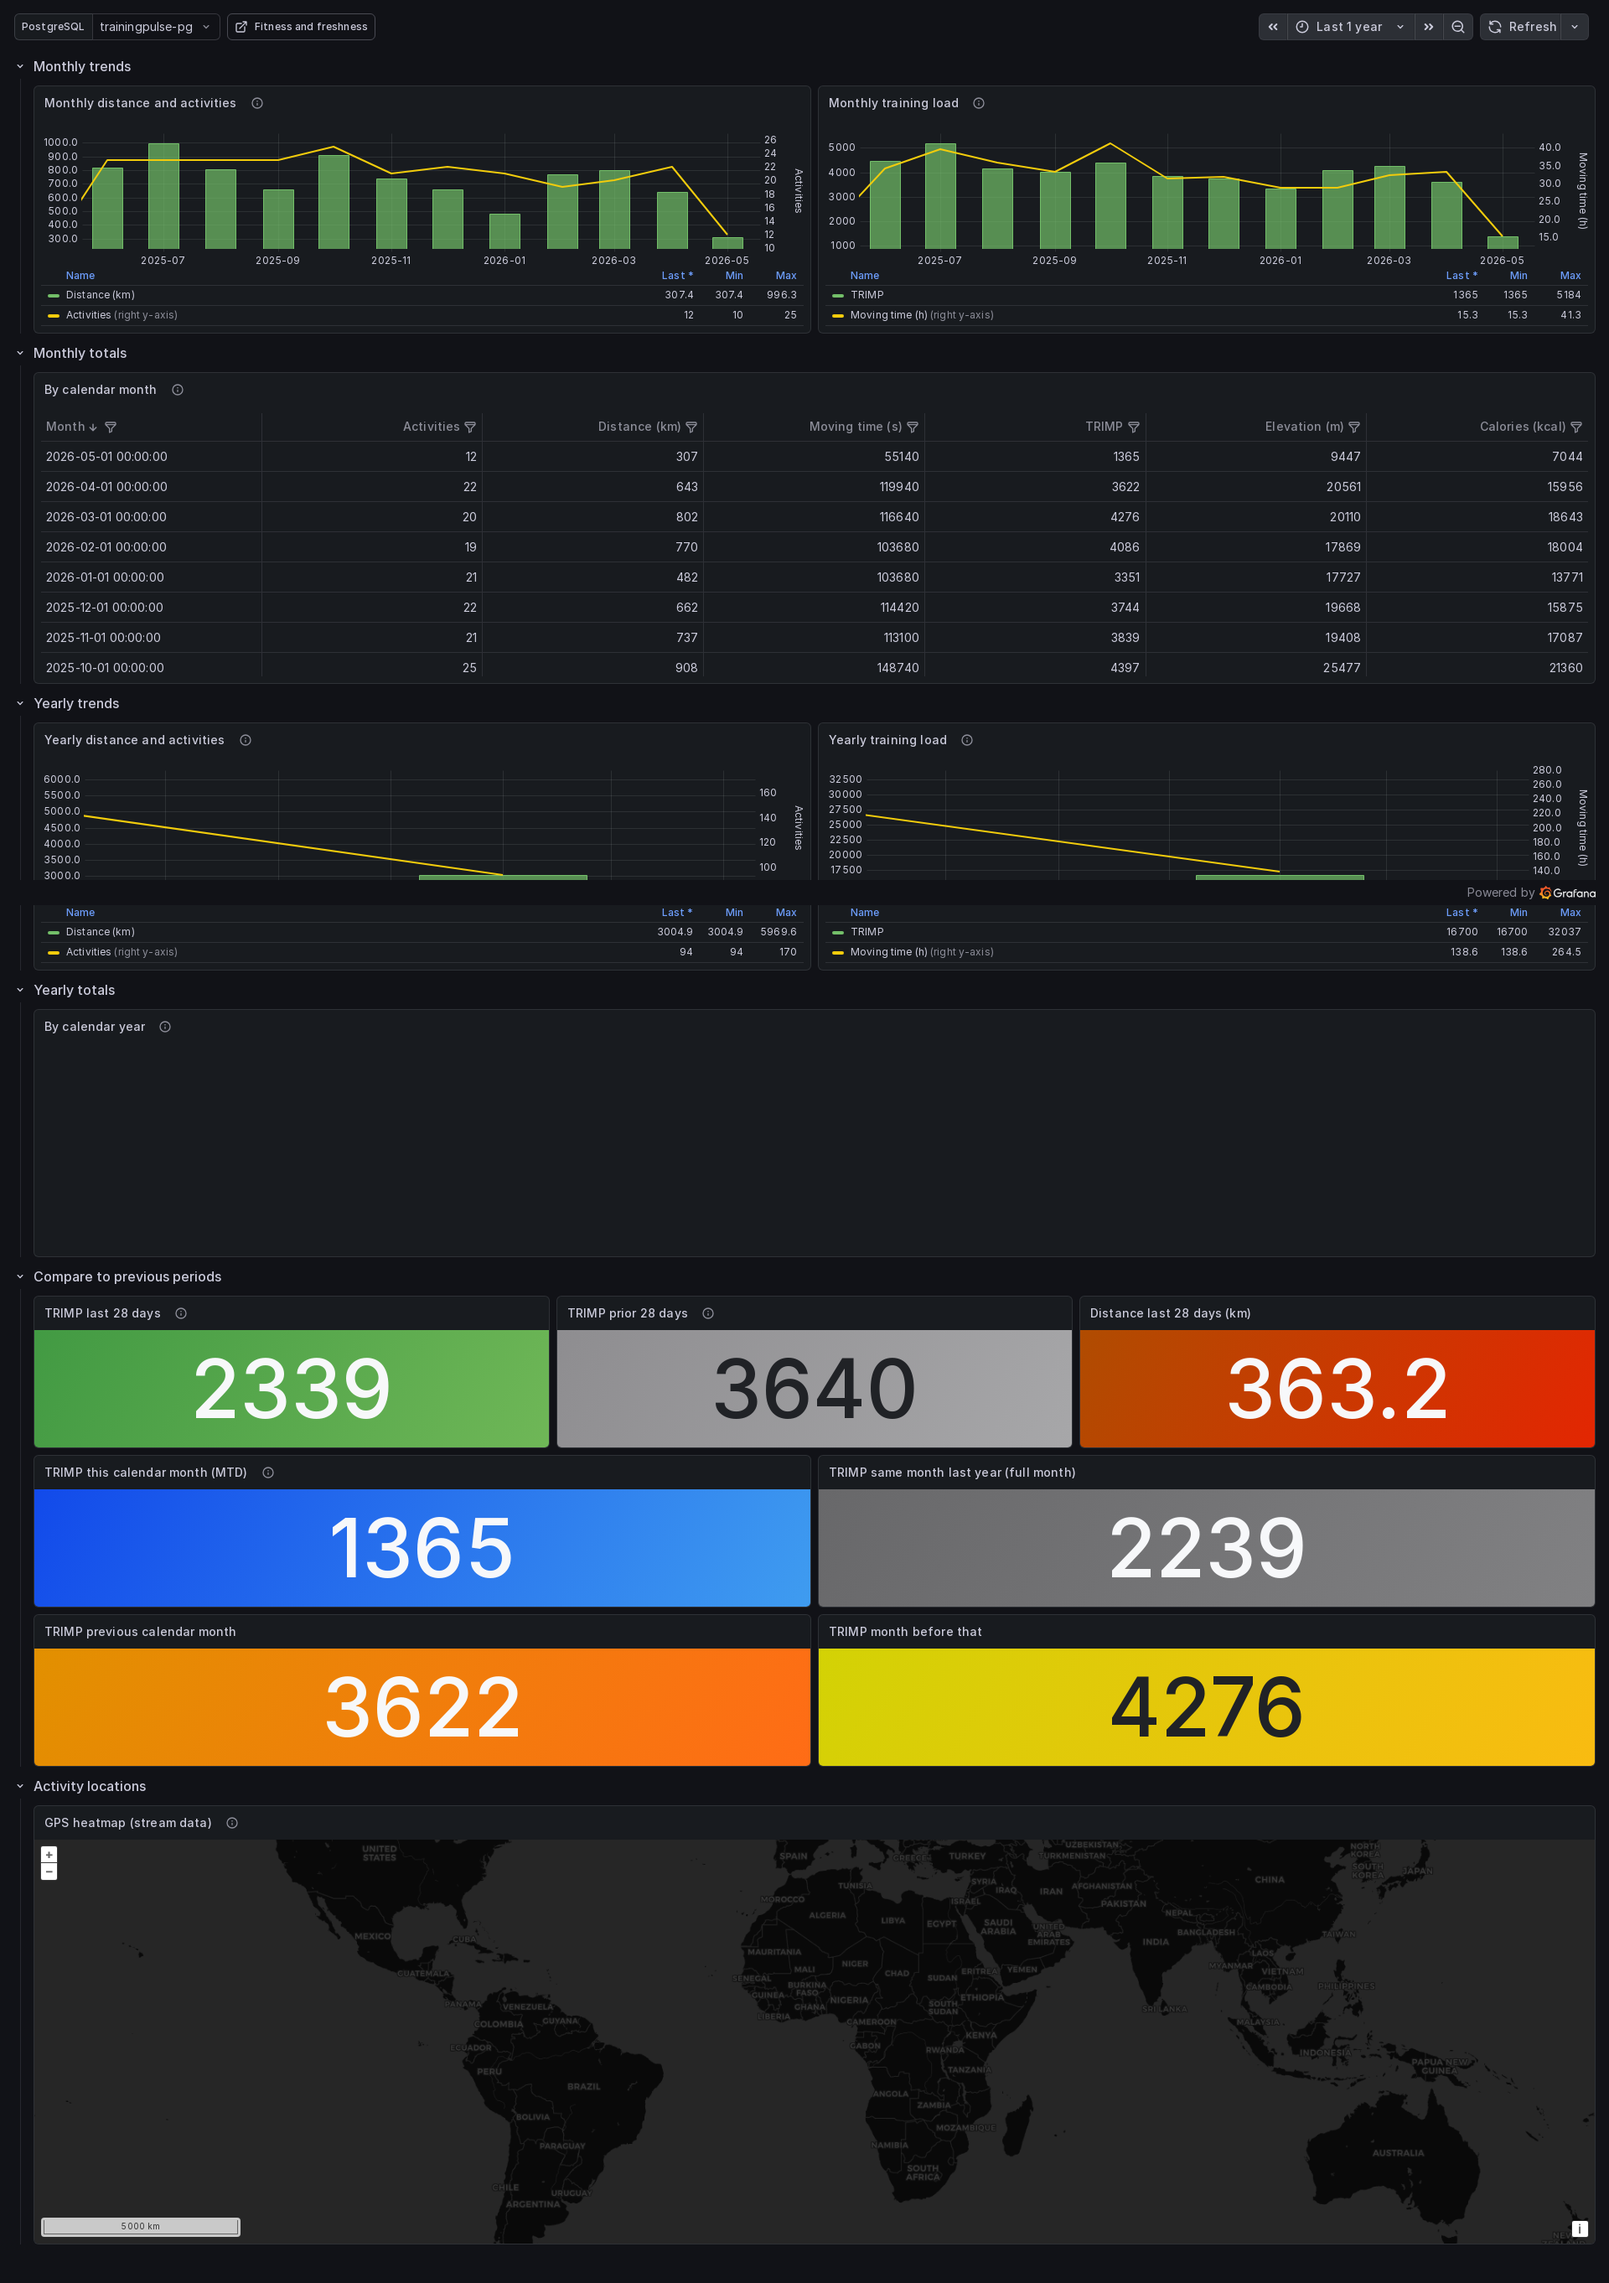
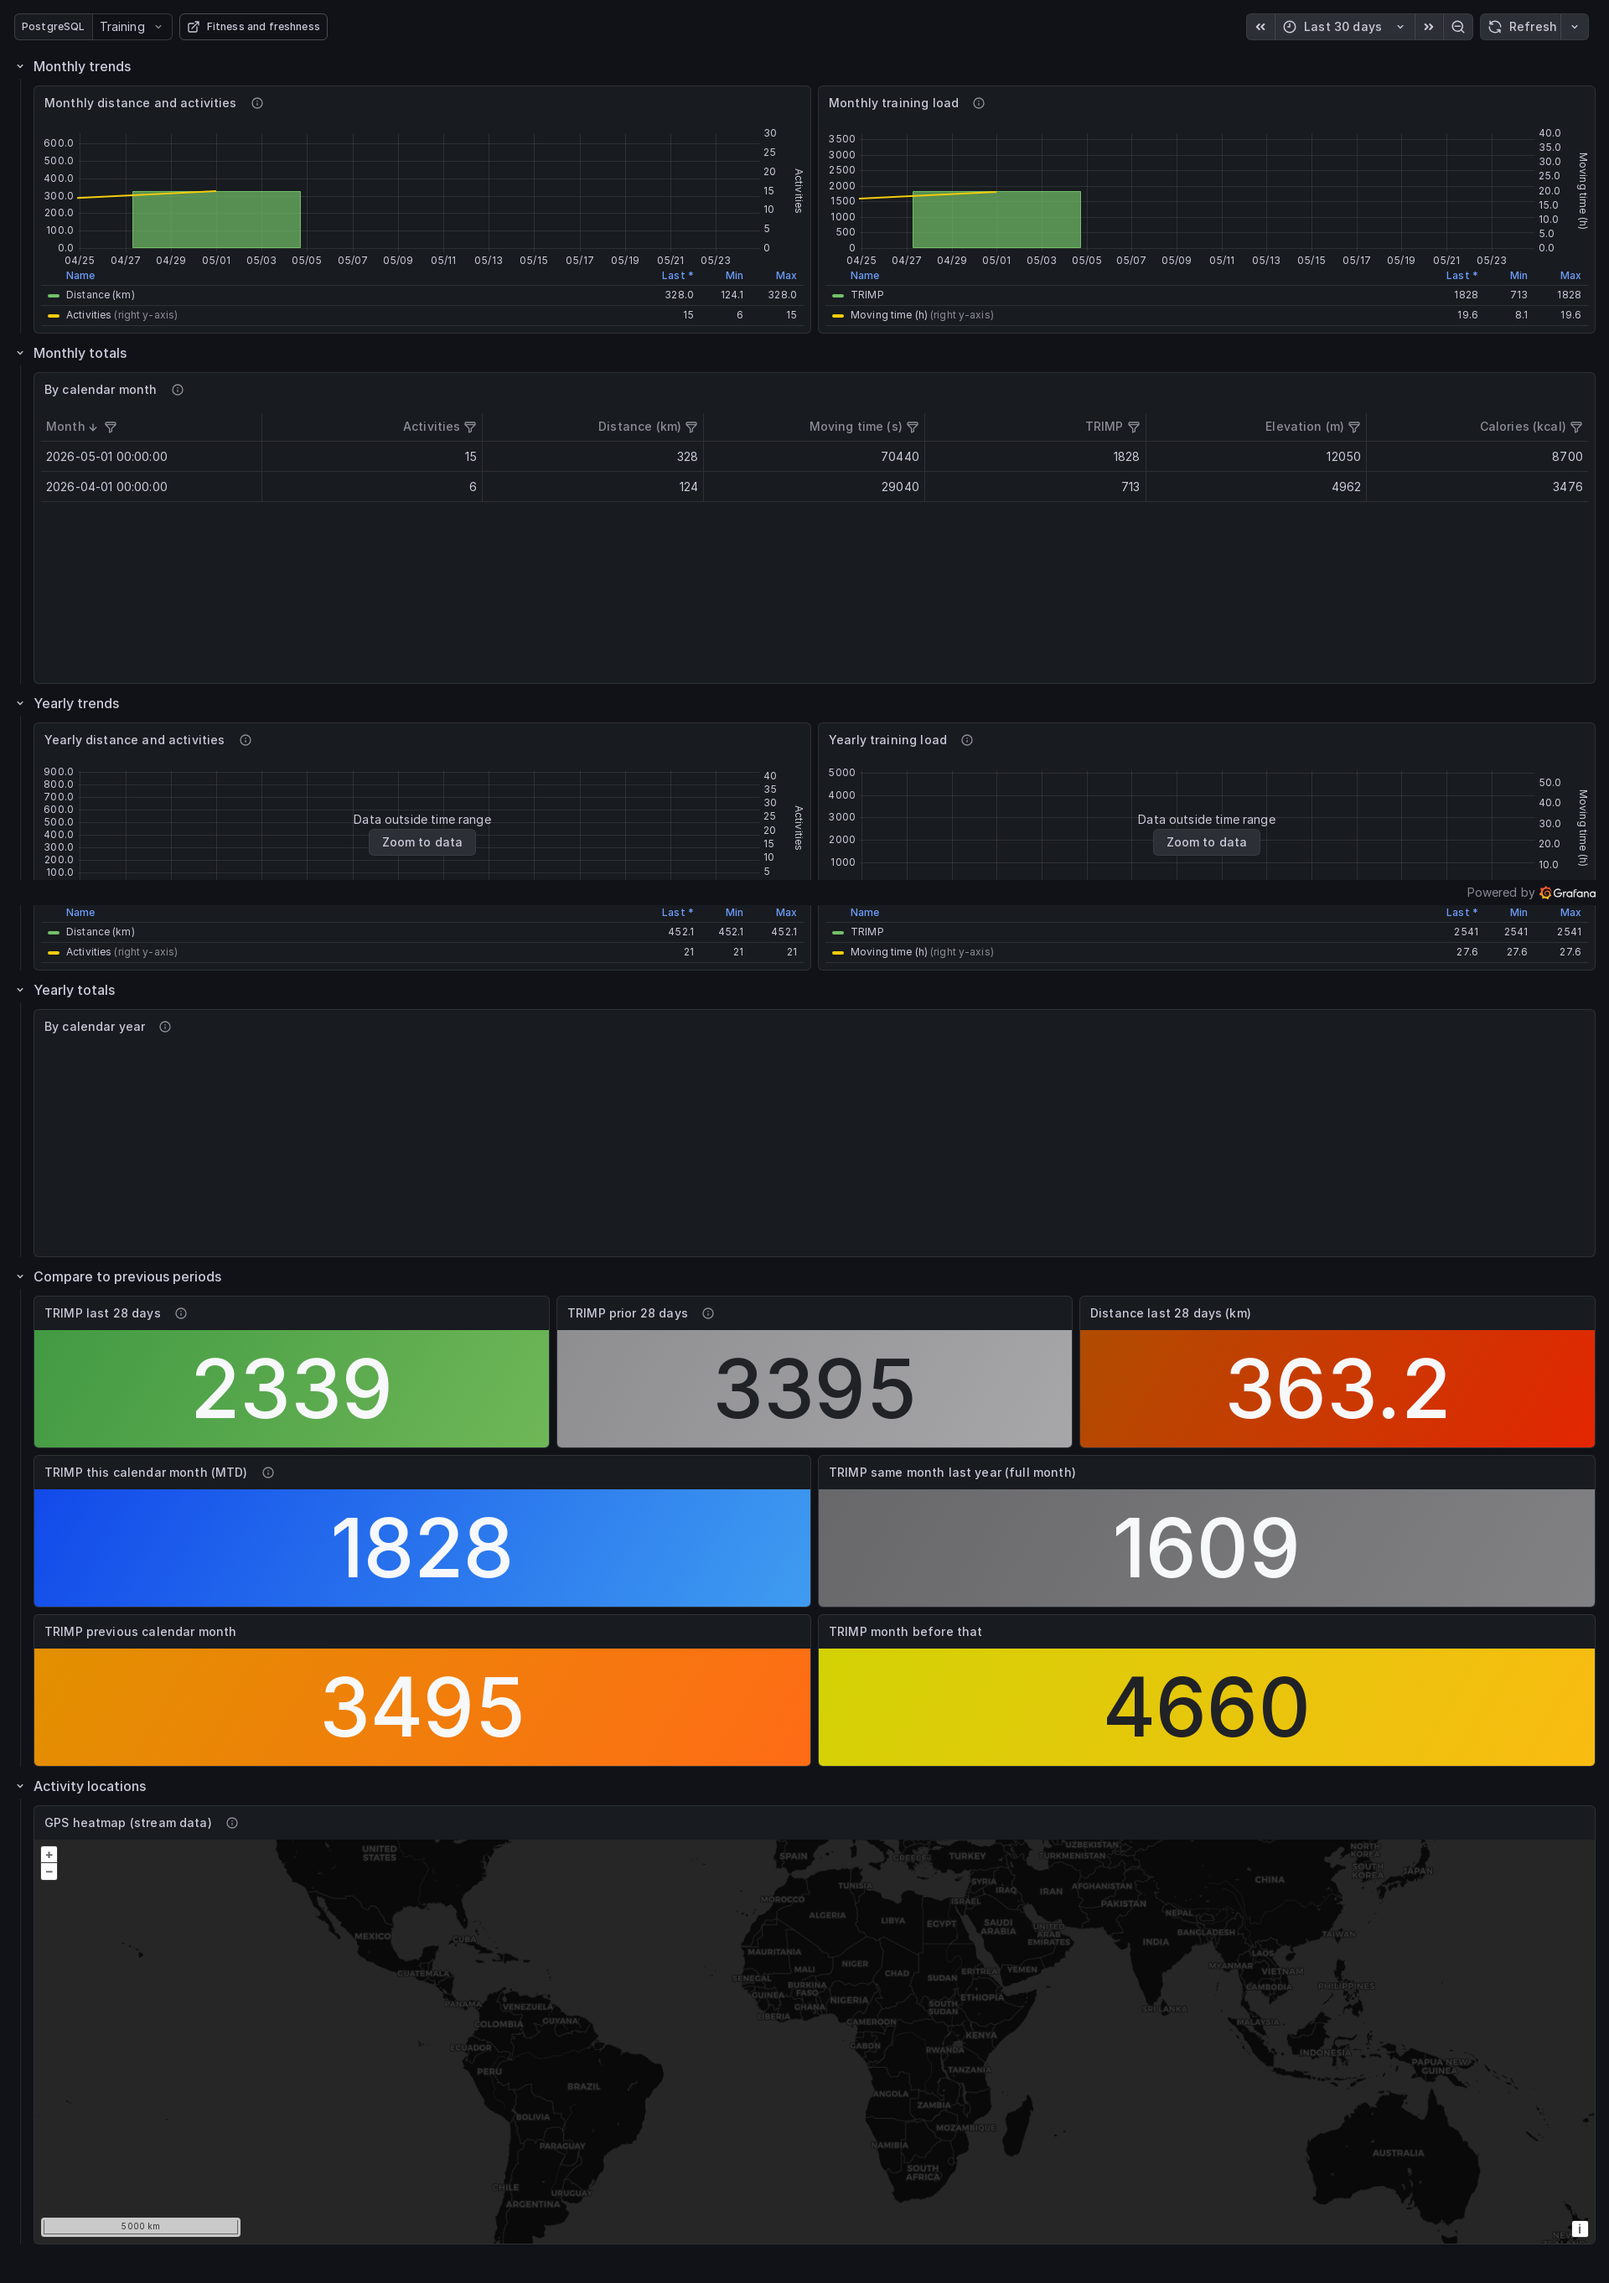
docs: update screenshots

diff --git a/grafana/screenshot_dashboards.py b/grafana/screenshot_dashboards.py
@@ -10,7 +10,7 @@ Environment variables (with defaults):
     WIDTH              1920
     HEIGHT             1080            # initial viewport; full_page=True grows it
     WAIT_MS            15000           # tail wait after networkidle for paint to settle
-    TIMERANGE          from=now-30d&to=now (used for fitness + account_overview)
+    TIMERANGE          from=now-30d&to=now (fitness, account_overview, addon dashboards)
     ACTIVITY_ID        (required) numeric id used for the activity-detail dashboard
     ACTIVITY_FROM_MS   (required) epoch-ms start for the activity-detail time range
     ACTIVITY_TO_MS     (required) epoch-ms end for the activity-detail time range
@@ -69,6 +69,17 @@ def build_targets() -> list[Dashboard]:
                 f"{grafana}/d/trainingpulse-activity-detail/trainingpulse-activity-detail"
                 f"?orgId=1&from={activity_from}&to={activity_to}"
                 f"&var-activity_id={activity_id}&kiosk"
+            ),
+        ),
+        Dashboard(
+            name="nutrition_training_weight",
+            path=(
+                f"{grafana}/d/trainingpulse-nutrition-training-weight/"
+                f"trainingpulse-nutrition-training-and-weight"
+                f"?orgId=1&{timerange}&kiosk"
+                f"&var-DS_TRAINING=trainingpulse-pg"
+                f"&var-DS_NUTRITION=fddb-pg"
+                f"&var-DS_WEIGHT=withings-pg"
             ),
         ),
     ]

diff --git a/DEVELOPERS.md b/DEVELOPERS.md
@@ -217,13 +217,15 @@ The synthetic streams intentionally omit `latlng`, so the activity-detail map pa
 
 [`grafana/take_screenshots.sh`](grafana/take_screenshots.sh) captures full-page PNGs of each Grafana dashboard by running the official Playwright Python container against the live stack. The screenshots write to [`screenshots/`](screenshots/) and use the bundled demo data when the DB has been seeded with [`app/seed_demo_data.py`](app/seed_demo_data.py).
 
+Captured dashboards: `fitness.png`, `account_overview.png`, `activity_detail.png`, and `nutrition_training_weight.png` (the FDDB / Withings addon dashboard in Grafana’s **Addons** folder).
+
 Prerequisites: the stack is running (`docker compose up -d`) and the DB has data. Then:
 
 ```bash
 ./grafana/take_screenshots.sh
 ```
 
-The script picks the highest-TRIMP recent ride for the activity-detail dashboard, computes a tight time range that spans that activity (so HR / power / cadence streams render at full resolution), and uses `from=now-30d&to=now` for the other two dashboards. Override behavior via env vars listed at the top of the script (`ACTIVITY_ID`, `TIMERANGE`, `WIDTH`, `HEIGHT`, `WAIT_MS`, etc.). The Playwright image is pulled on first run; each invocation runs a quick `pip install playwright` inside the container (the base image ships Chromium but not the Python package).
+The script picks the highest-TRIMP recent ride for the activity-detail dashboard, computes a tight time range that spans that activity (so HR / power / cadence streams render at full resolution), and uses `from=now-30d&to=now` for the fitness, account-overview, and addon dashboards. Override behavior via env vars listed at the top of the script (`ACTIVITY_ID`, `TIMERANGE`, `WIDTH`, `HEIGHT`, `WAIT_MS`, etc.). The Playwright image is pulled on first run; each invocation runs a quick `pip install playwright` inside the container (the base image ships Chromium but not the Python package).
 
 ## Source map
 

diff --git a/README.md b/README.md
@@ -20,17 +20,21 @@ Example views from the bundled dashboards.
 
 <table>
 <tr>
-<td align="center" valign="top" width="33%">
-<a href="screenshots/activity_detail.png"><img src="screenshots/activity_detail.png" width="260" alt="Activity detail dashboard"></a><br />
+<td align="center" valign="top" width="25%">
+<a href="screenshots/activity_detail.png"><img src="screenshots/activity_detail.png" width="200" alt="Activity detail dashboard"></a><br />
 <sub>Activity detail</sub>
 </td>
-<td align="center" valign="top" width="33%">
-<a href="screenshots/fitness.png"><img src="screenshots/fitness.png" width="260" alt="Fitness and Freshness dashboard"></a><br />
+<td align="center" valign="top" width="25%">
+<a href="screenshots/fitness.png"><img src="screenshots/fitness.png" width="200" alt="Fitness and Freshness dashboard"></a><br />
 <sub>Fitness &amp; Freshness</sub>
 </td>
-<td align="center" valign="top" width="33%">
-<a href="screenshots/account_overview.png"><img src="screenshots/account_overview.png" width="260" alt="Account overview dashboard"></a><br />
+<td align="center" valign="top" width="25%">
+<a href="screenshots/account_overview.png"><img src="screenshots/account_overview.png" width="200" alt="Account overview dashboard"></a><br />
 <sub>Account overview</sub>
+</td>
+<td align="center" valign="top" width="25%">
+<a href="screenshots/nutrition_training_weight.png"><img src="screenshots/nutrition_training_weight.png" width="200" alt="Nutrition, training and weight dashboard"></a><br />
+<sub>Nutrition &amp; weight</sub>
 </td>
 </tr>
 </table>
